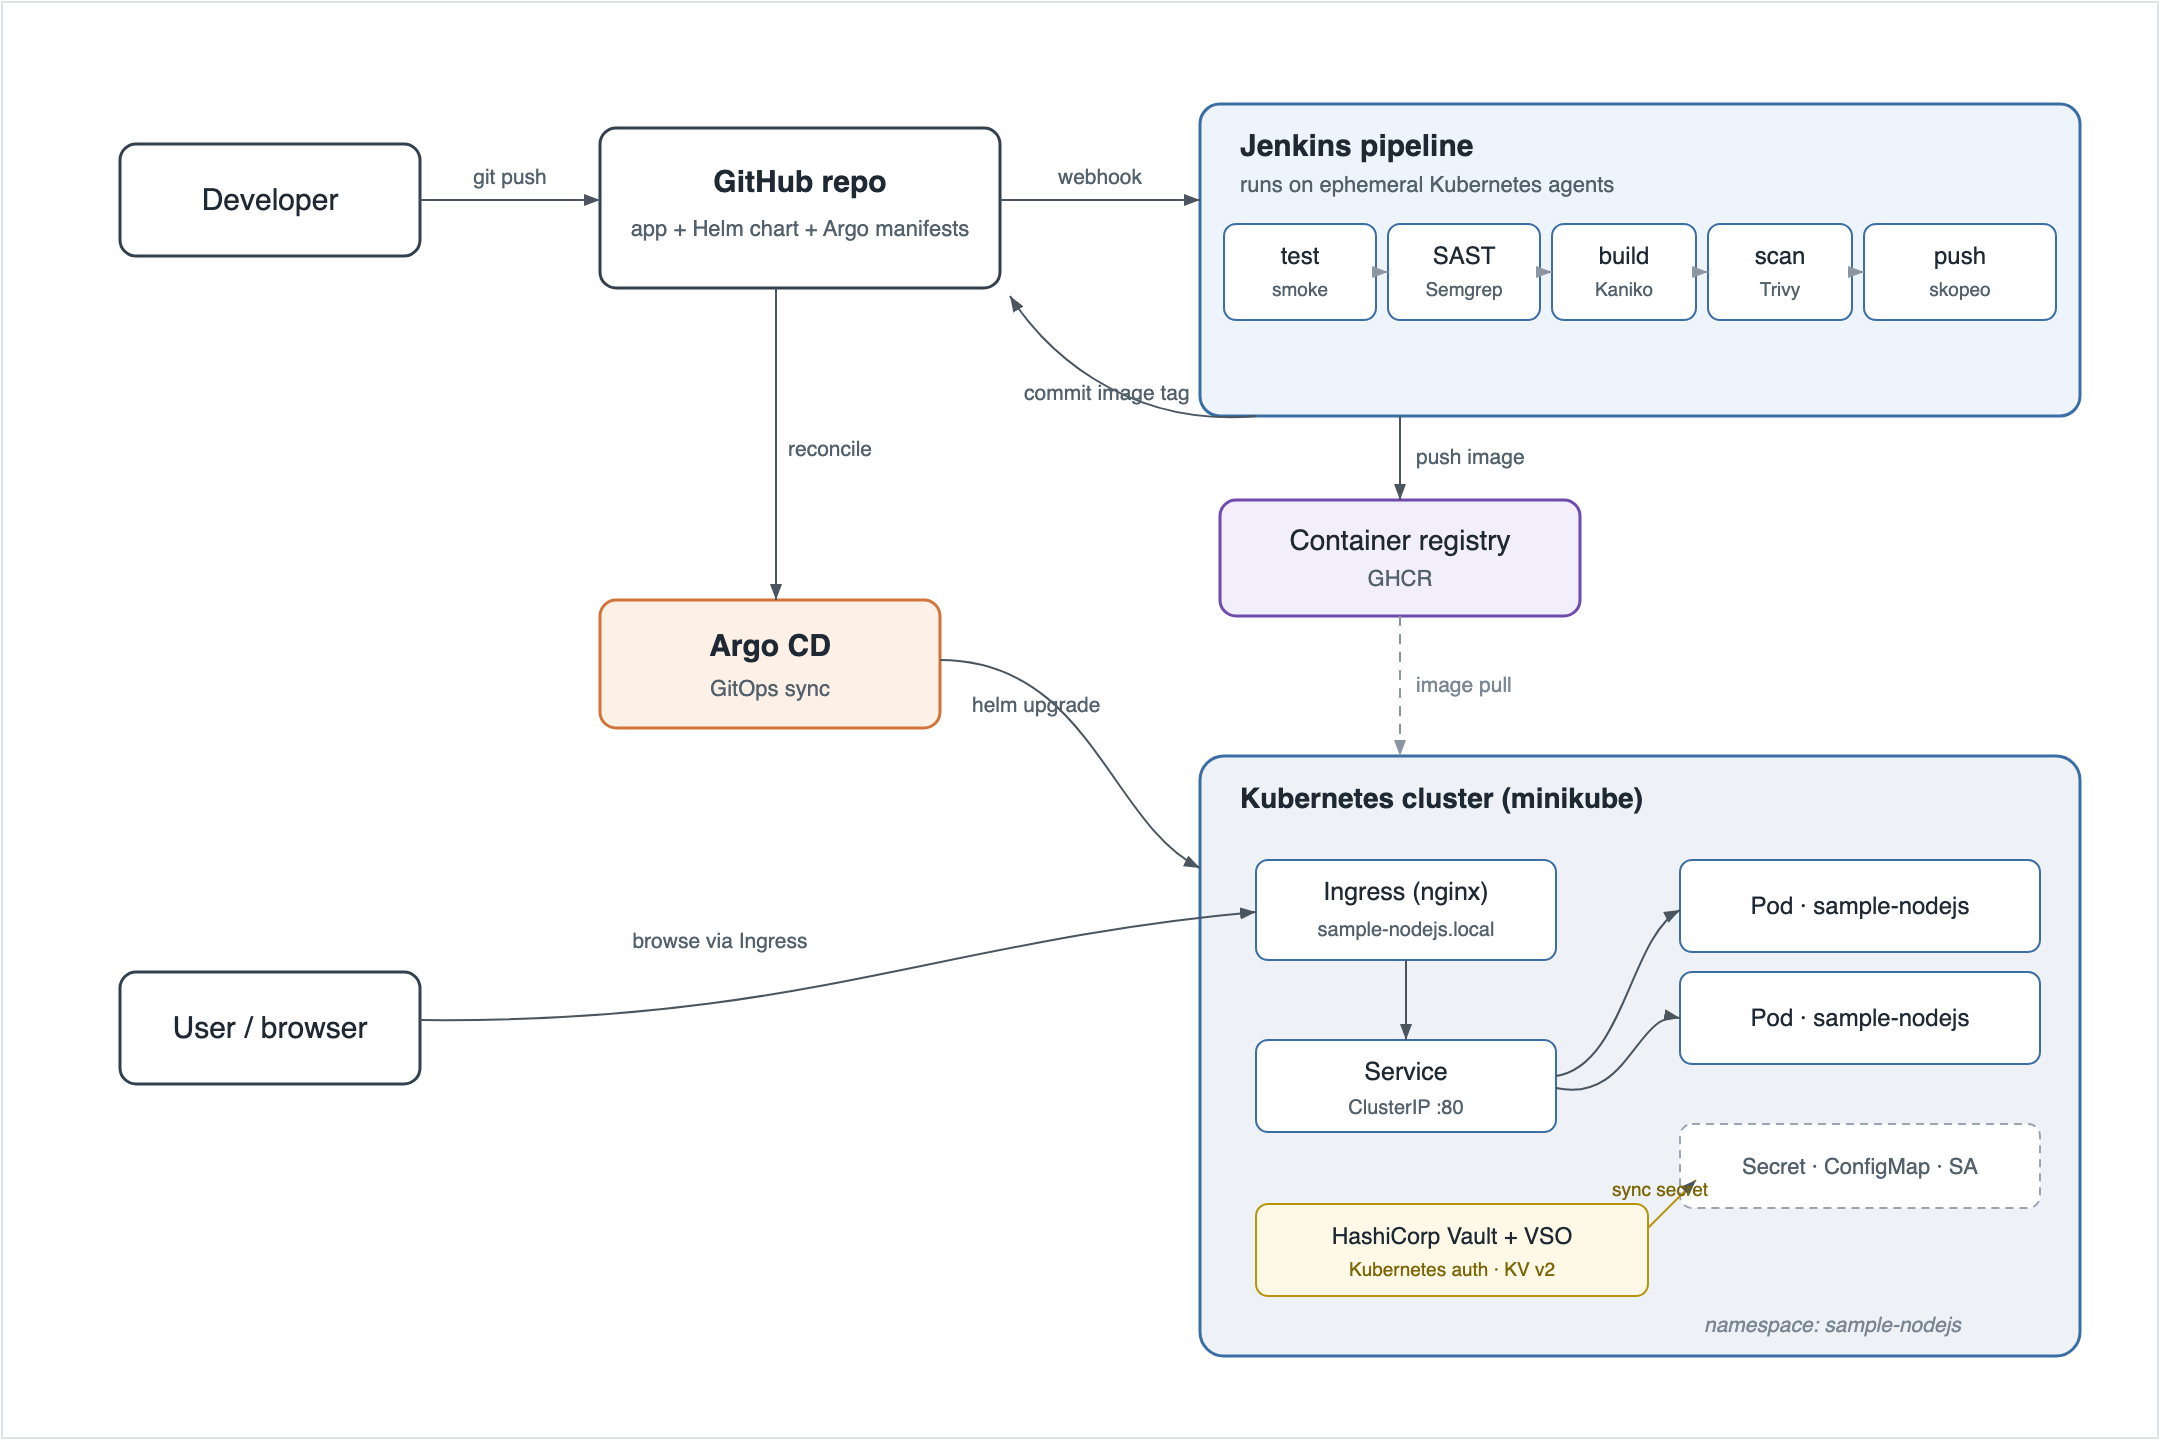
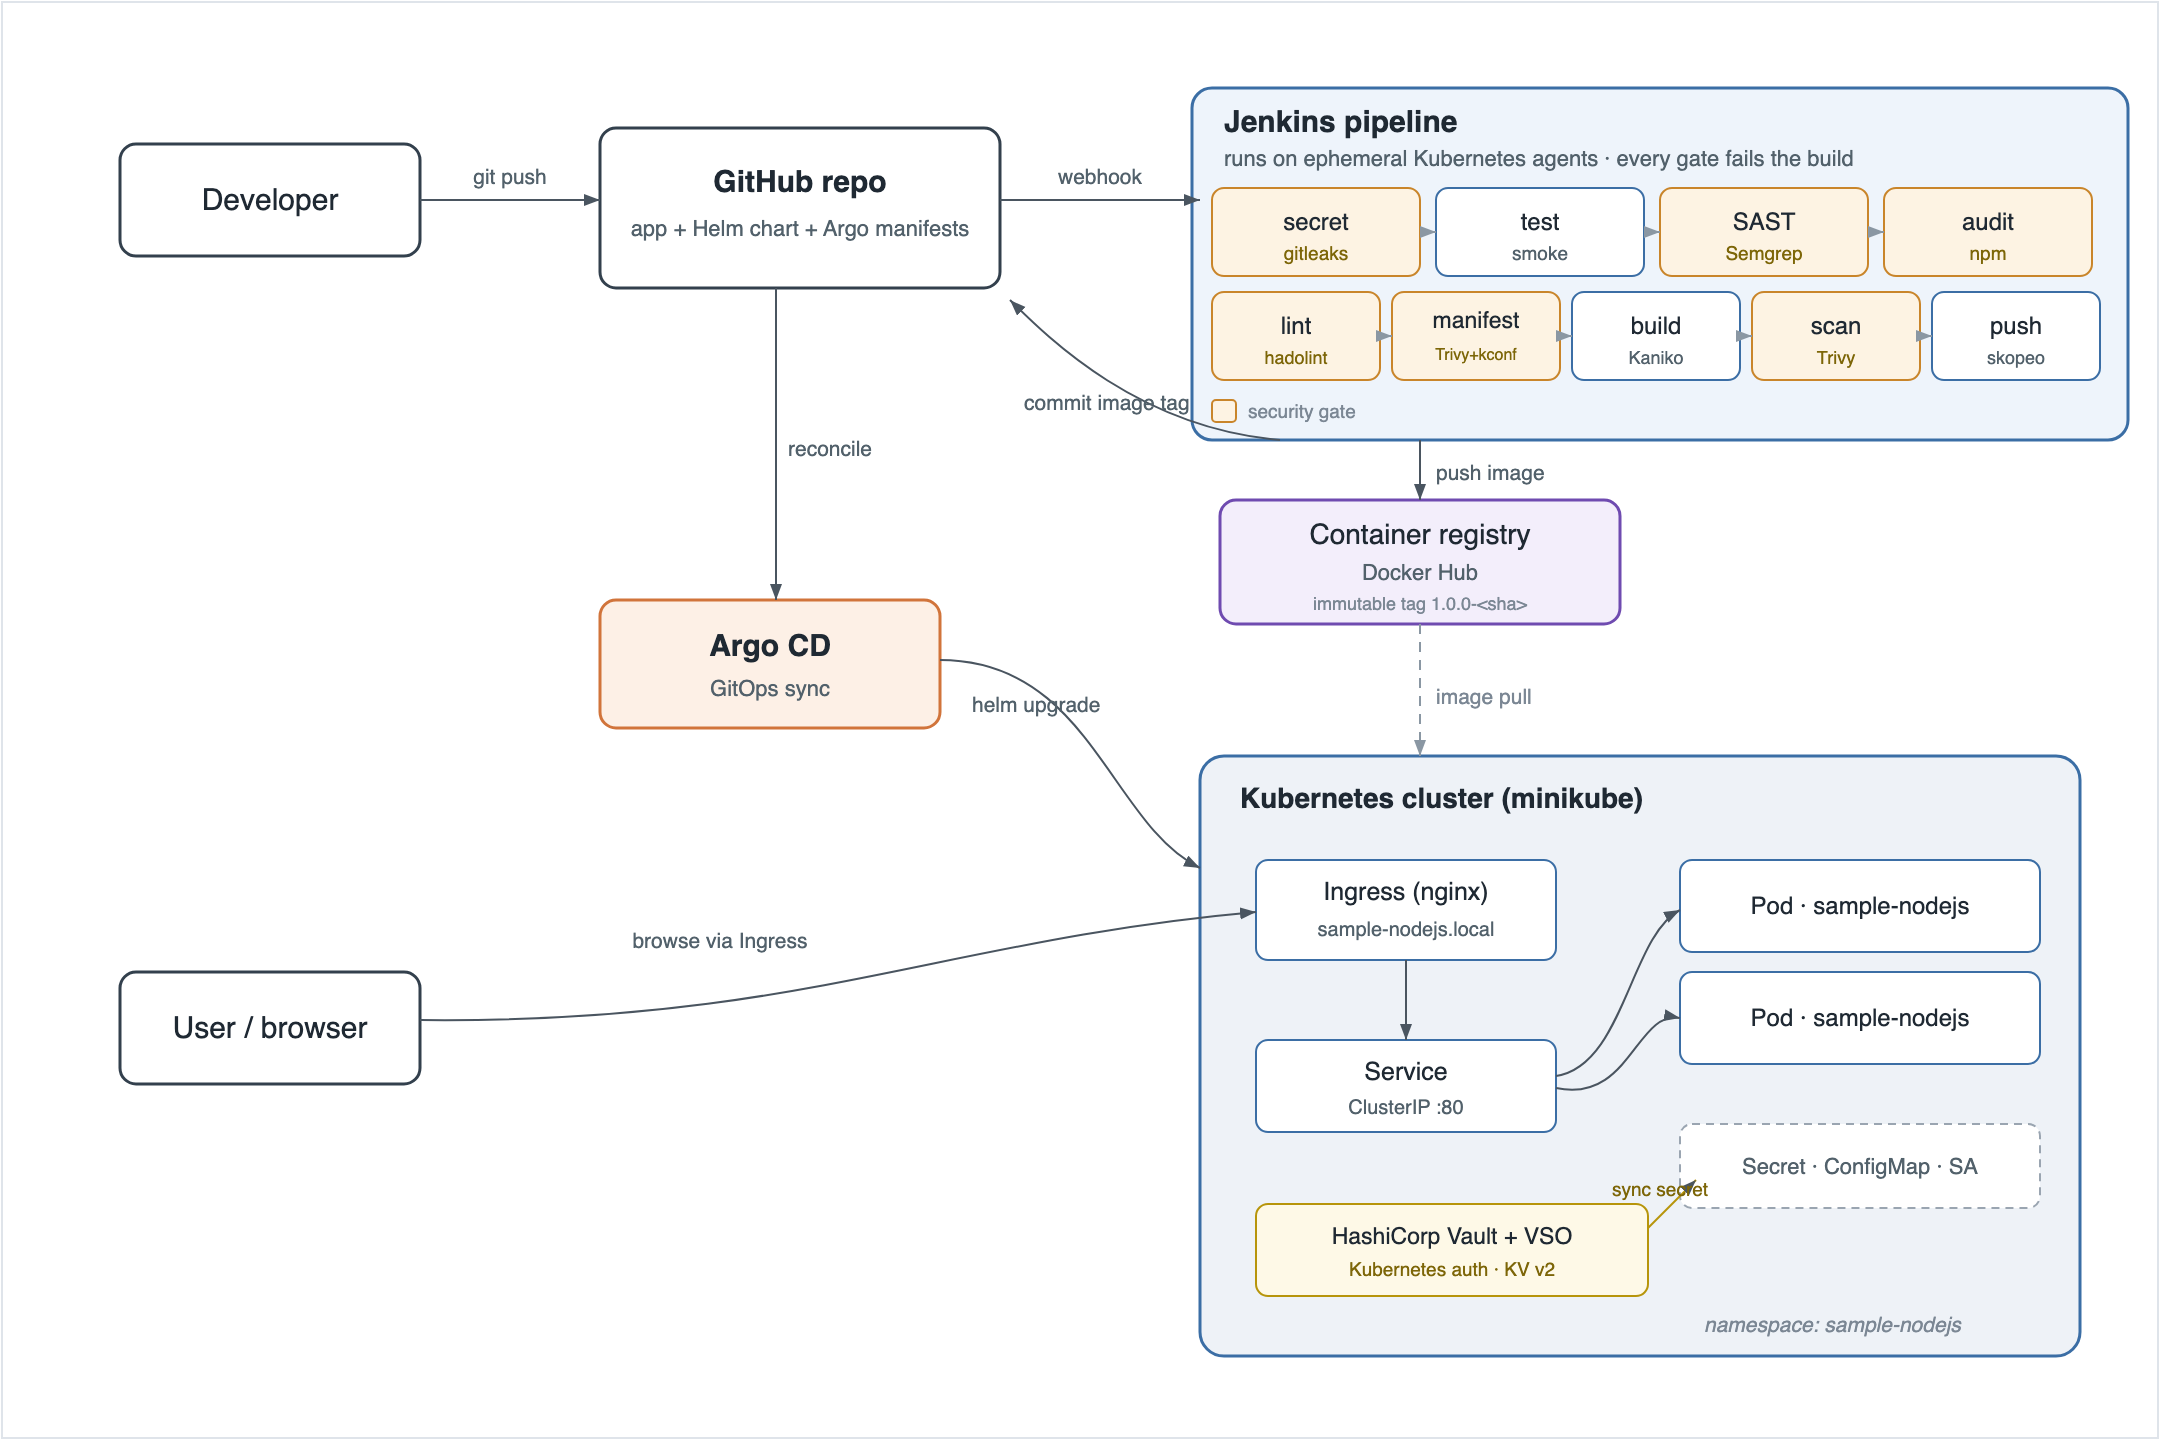
docs: DevSecOps gates, Docker Hub, immutable tags, rollback + proof
- README: controls table (gitleaks/hadolint/trivy config/kubeconform),
  Images-and-registry section (Docker Hub + immutable version-sha tags),
  Rolling-back section; correct the old GHCR/local-load notes
- architecture diagram: add secret + manifest gates, Docker Hub, immutable tag
- proof: security-scans.txt, dockerhub-deploy.txt (digest match), dockerhub.png,
  rollback.txt (bad release -> git revert recovery)

Changed region(s): [[0.4653, 0.0625, 0.9926, 0.4375], [0.6514, 0.4688, 0.7134, 0.5]]

diff --git a/README.md b/README.md
@@ -36,9 +36,10 @@ checks the main routes actually answer. That runs as the first gate in CI.
 ![Architecture](docs/architecture.png)
 
 The flow is what you'd expect. You push to GitHub, Jenkins picks it up and runs
-through its stages, and if everything passes it pushes the image and writes the
-new tag back into the chart values. Argo CD notices that commit and brings the
-cluster in line with it. Traffic reaches the app only through the ingress.
+through its stages, and if everything passes it pushes the image to Docker Hub
+under an immutable version-plus-SHA tag and writes that tag back into the chart
+values. Argo CD notices that commit and brings the cluster in line with it.
+Traffic reaches the app only through the ingress.
 
 One detail I care about: the pipeline builds the image, scans it, and *then*
 pushes. If Trivy finds something serious the image never lands in the registry,
@@ -56,9 +57,10 @@ StatefulSet would buy stable identities and ordered rollouts that this app has n
 use for.
 
 **Jenkins running on Kubernetes.** Each stage runs in its own container inside a
-throwaway pod (node, semgrep, kaniko, trivy, skopeo, git). I like this because
-there's nothing to install or keep patched on a static agent, every build starts
-clean, and the build environment looks like where the app actually runs.
+throwaway pod (node, git, semgrep, gitleaks, hadolint, helm, kubeconform, kaniko,
+trivy, skopeo). I like this because there's nothing to install or keep patched on
+a static agent, every build starts clean, and the build environment looks like
+where the app actually runs.
 
 **Kaniko plus skopeo instead of Docker.** There's no Docker daemon inside a build
 pod, and I didn't want to mount a host socket. Kaniko builds rootless. The catch
@@ -81,16 +83,92 @@ CI just commits a new image tag and Argo does the rest.
 
 ## Security
 
-Most of the security work is in two places. In CI, Semgrep runs as the SAST step
-and fails the build on high-severity findings, `npm audit` fails on critical
-dependency issues, and Trivy blocks anything with HIGH or CRITICAL image CVEs
-before the push. I left `--ignore-unfixed` on for Trivy so it doesn't wedge the
-pipeline on base-image CVEs that have no patch yet.
+The pipeline treats security as a set of gates, and every one of them fails the
+build on a real finding, so nothing broken gets past the stage that catches it.
+They run cheapest and earliest first:
+
+| Gate | Tool | What it catches | Fails on |
+| --- | --- | --- | --- |
+| Secret scan | gitleaks | credentials committed anywhere in git history | any leak |
+| Unit / smoke | node | the app doesn't boot or a route regressed | test failure |
+| SAST | Semgrep | insecure code patterns | high severity |
+| Dependency audit | npm audit | vulnerable npm packages | critical |
+| Dockerfile lint | hadolint | Dockerfile foot-guns (root user, floating tags) | any finding |
+| Manifest misconfig | Trivy config | insecure Kubernetes settings in the rendered chart | HIGH / CRITICAL |
+| Manifest schema | kubeconform | manifests that aren't valid Kubernetes | any invalid doc |
+| Image scan | Trivy image | OS and library CVEs in the built image | HIGH / CRITICAL |
+
+A few of these are worth calling out. The **secret scan** runs first and looks at
+the whole history, not just the diff, so a key committed five commits ago and
+"removed" later still trips it. The **manifest gates** render the chart with
+`helm template` and then scan the output: Trivy config flags things like a
+container that can run as root or a missing read-only root filesystem, and
+kubeconform checks the YAML actually validates against the Kubernetes schemas. So
+a bad chart change is caught in CI instead of at `kubectl apply` time. I keep
+`--ignore-unfixed` on the image scan so it doesn't wedge on base-image CVEs that
+have no patch yet.
+
+I ran the four new gates locally against this repo; the output is in
+[`docs/proof/security-scans.txt`](docs/proof/security-scans.txt) and everything
+comes back clean. One of them earned its place straight away: Trivy config failed
+the Helm test pod for running with a default security context (a HIGH), so I gave
+it the same non-root, read-only, drop-all hardening as the app.
 
 At runtime the chart runs the container as non-root (UID 1000), with a read-only
 root filesystem (there's a small emptyDir for `/tmp`), all Linux capabilities
 dropped, the default seccomp profile on, and the service account token not
 mounted since the app never talks to the API server.
+
+## Images and the registry
+
+Built images go to Docker Hub at
+[`docker.io/barfeldman/sample-nodejs`](https://hub.docker.com/r/barfeldman/sample-nodejs).
+Kaniko builds the image inside the pipeline, Trivy scans the resulting tarball,
+and only a clean image is pushed with skopeo.
+
+Every image gets an **immutable tag**: the app version plus the short git SHA,
+for example `1.0.0-d14da2a`. I don't deploy moving tags like `latest` or a bare
+`1.0.0`, because those can point at different bytes tomorrow and make a rollback
+meaningless. The tag names the exact commit it was built from, the pipeline
+writes that tag into the chart values as the promotion step, and Argo CD deploys
+it. What's running is always traceable back to one line of history.
+
+The proof is in
+[`docs/proof/dockerhub-deploy.txt`](docs/proof/dockerhub-deploy.txt): the digest
+Docker Hub reports for the pushed tag is byte-for-byte the digest the running
+pods report pulling. No local image loading, no `latest`.
+
+![Image on Docker Hub](docs/proof/dockerhub.png)
+
+## Rolling back
+
+Because the deployed version is just a tag in Git, a rollback is a Git operation,
+and that's the primary path:
+
+```bash
+git revert <promote-commit>   # put the previous immutable tag back
+git push                      # Argo CD reconciles the cluster to it
+```
+
+Two things make this safe. The image is immutable, so reverting to the old tag
+brings back exactly the bytes that were running before, not a fresh rebuild. And
+the rollout is set up so a bad version can't take the app down: with two replicas
+the effective `maxUnavailable` is zero, so Kubernetes keeps the healthy pods
+serving until a replacement is genuinely ready.
+
+I tested this end to end instead of just describing it. I promoted a deliberately
+broken tag (`0.0.0-broken`), let Argo CD apply it, and watched the new pod sit in
+`ImagePullBackOff` while the two old pods kept answering 200. Then I reverted the
+bad commit, and the cluster was back on the good image about six seconds later.
+The full sequence, with pod states and the git trail, is in
+[`docs/proof/rollback.txt`](docs/proof/rollback.txt).
+
+If I ever needed to move faster than a Git round-trip during an incident, there
+are two lower-level escape hatches: `argocd app rollback sample-nodejs` jumps to a
+previous synced revision, and `kubectl -n sample-nodejs rollout undo
+deploy/sample-nodejs` reverts the Deployment's ReplicaSet. Both are stop-gaps.
+With Argo's self-heal on, the real fix still has to land in Git or Argo will
+reconcile the cluster straight back to whatever the repo says.
 
 ## Secrets (HashiCorp Vault)
 
@@ -162,7 +240,7 @@ curl localhost:8080/my-app
 
 If you want to run the pipeline yourself, the job should be a Multibranch or
 "Pipeline from SCM" job with a Kubernetes cloud configured. It needs two things
-wired up: a `regcred` docker-config secret for pushing images, and a
+wired up: a `regcred` docker-config secret with push access to Docker Hub, and a
 `github-credentials` username/token for the promotion commit.
 
 ## Proof it actually runs
@@ -198,13 +276,20 @@ this shook out two real bugs I'd otherwise have shipped: `timestamps()` needed a
 plugin that wasn't installed, and my own git commands tripped git's
 dubious-ownership check inside the agent container. Both are fixed.
 
+I added the secret, Dockerfile and manifest gates after that run. By then I'd
+taken Jenkins down to free memory for Vault, so rather than re-running the whole
+job I validated those four against this repo using the same container images the
+pipeline pins (gitleaks, hadolint, Trivy config, kubeconform). The output is in
+[`docs/proof/security-scans.txt`](docs/proof/security-scans.txt).
+
 Running the gates directly also caught real vulnerabilities: npm audit flagged
 vulnerable Express transitive deps, and Trivy caught npm's bundled packages plus
 an OpenSSL CVE in the base image. That is why the lockfile is patched and the
 Dockerfile drops npm and runs `apk upgrade`. Everything comes back clean now.
 
-The image in the demo was built locally and loaded into minikube rather than
-pushed to GHCR, since that push belongs to the pipeline and my token doesn't have
-package write scope. The version bump is a simple patch bump on `main`; the
-promotion commit carries `[skip ci]` and the pipeline also guards against it so it
-can't trigger itself in a loop.
+The demo image is pushed to Docker Hub and pulled back down by the cluster, so
+the registry round-trip is real and not faked with a local image load. I checked
+that the running pods pull the exact digest I pushed, and the deployed tag is the
+immutable version-plus-SHA one, never `latest`. The version bump is a simple patch
+bump on `main`; the promotion commit carries `[skip ci]` and the pipeline also
+guards against it so it can't trigger itself in a loop.
